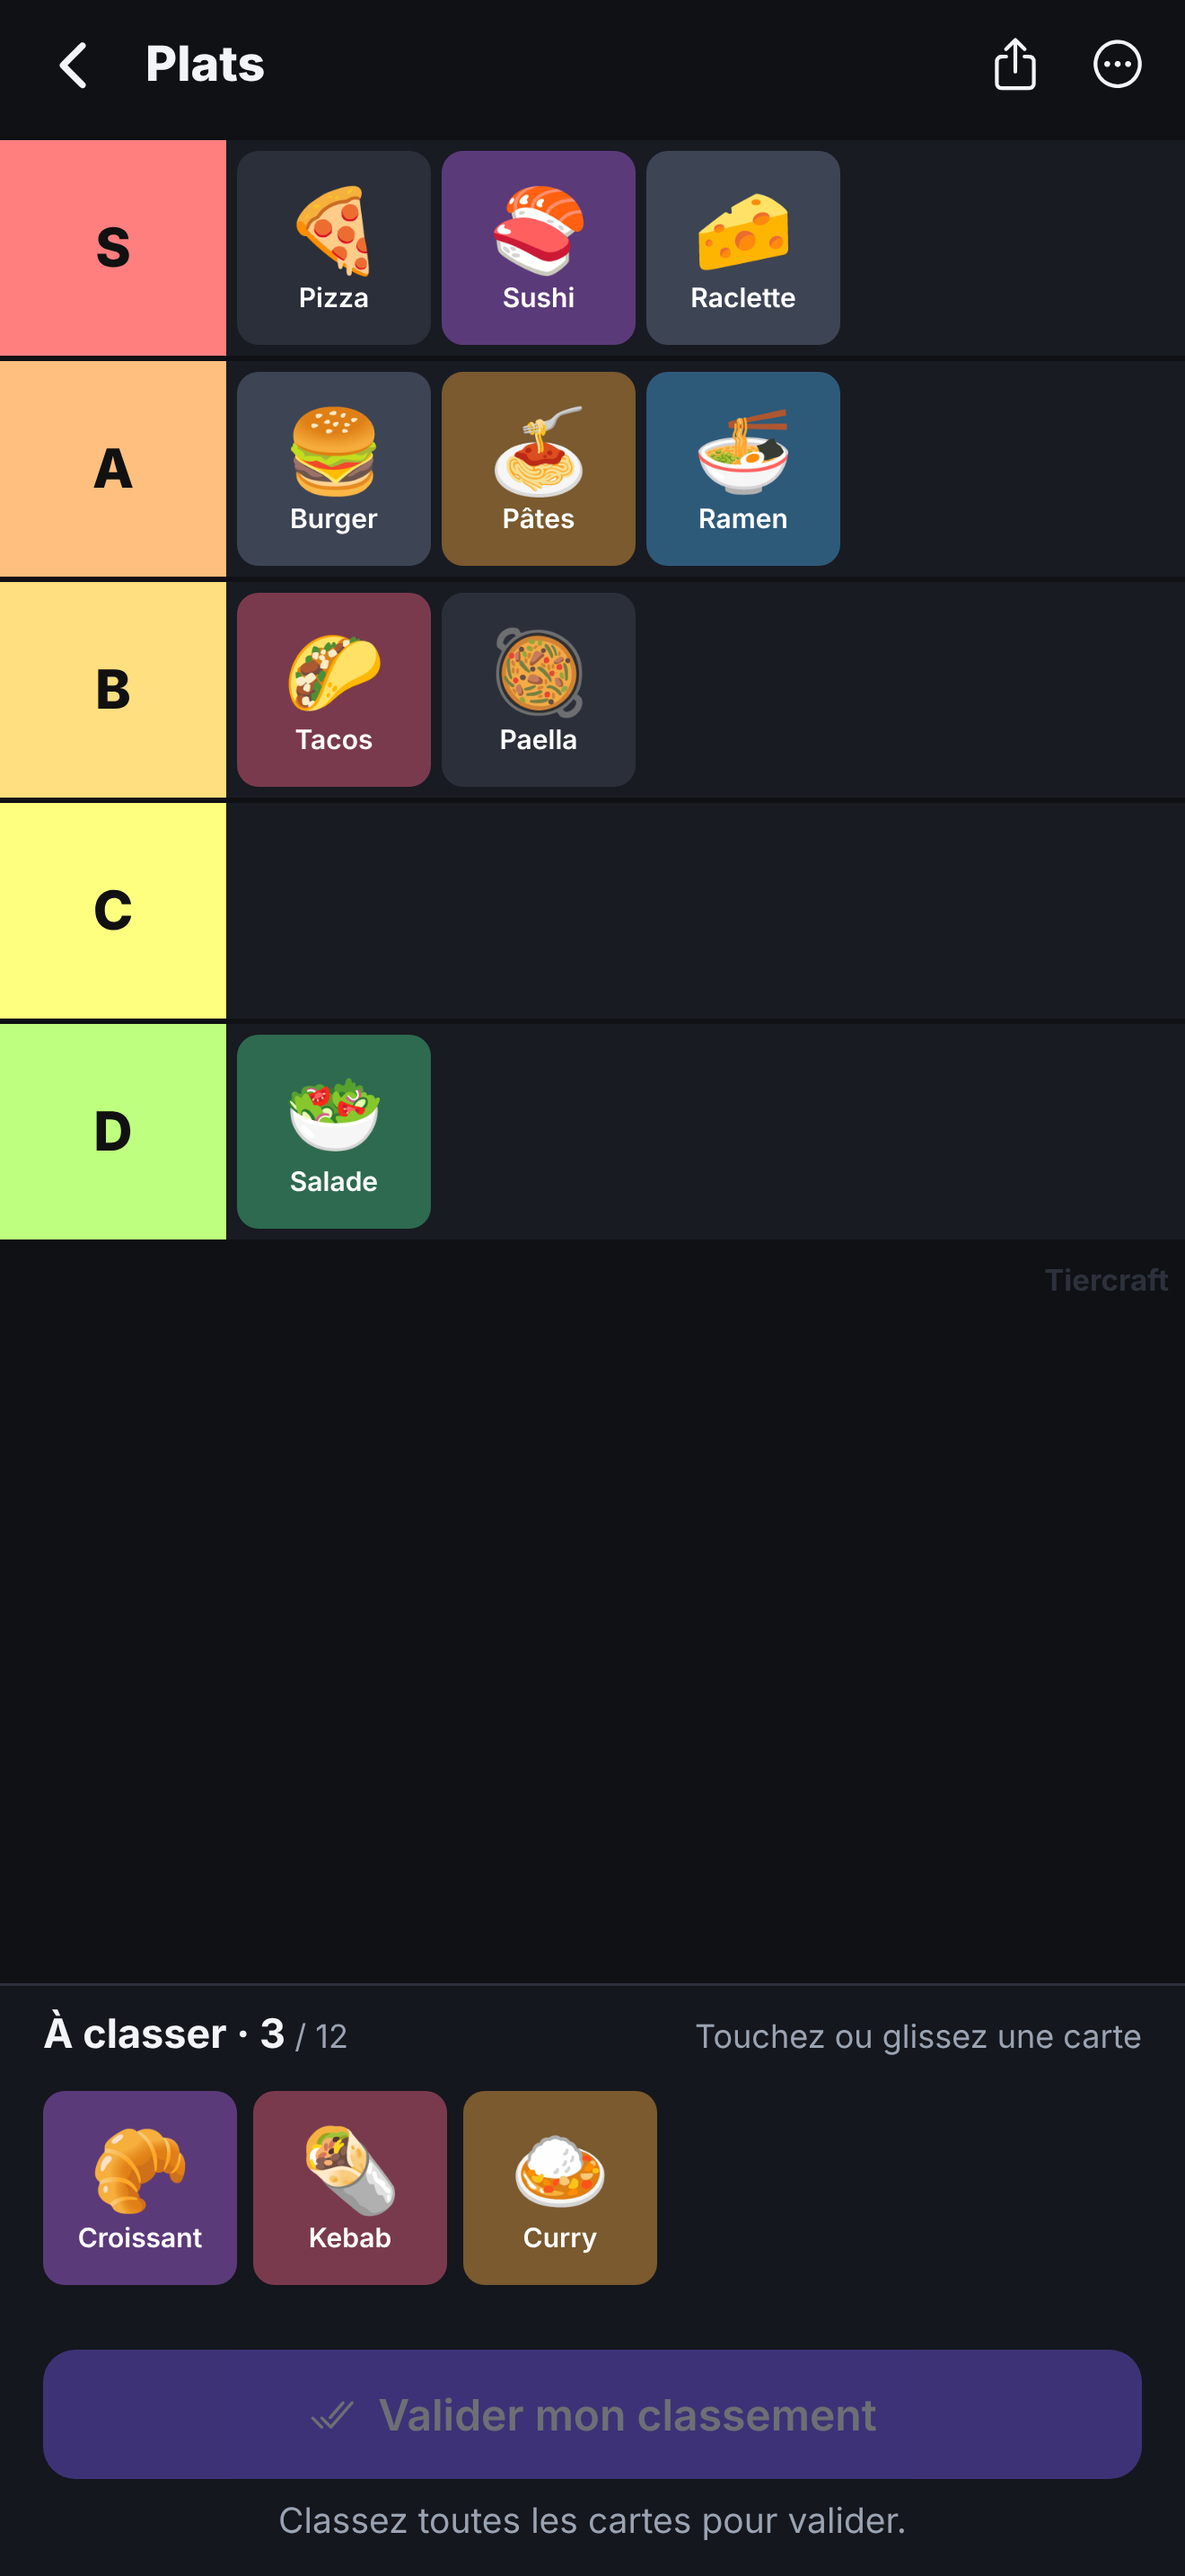
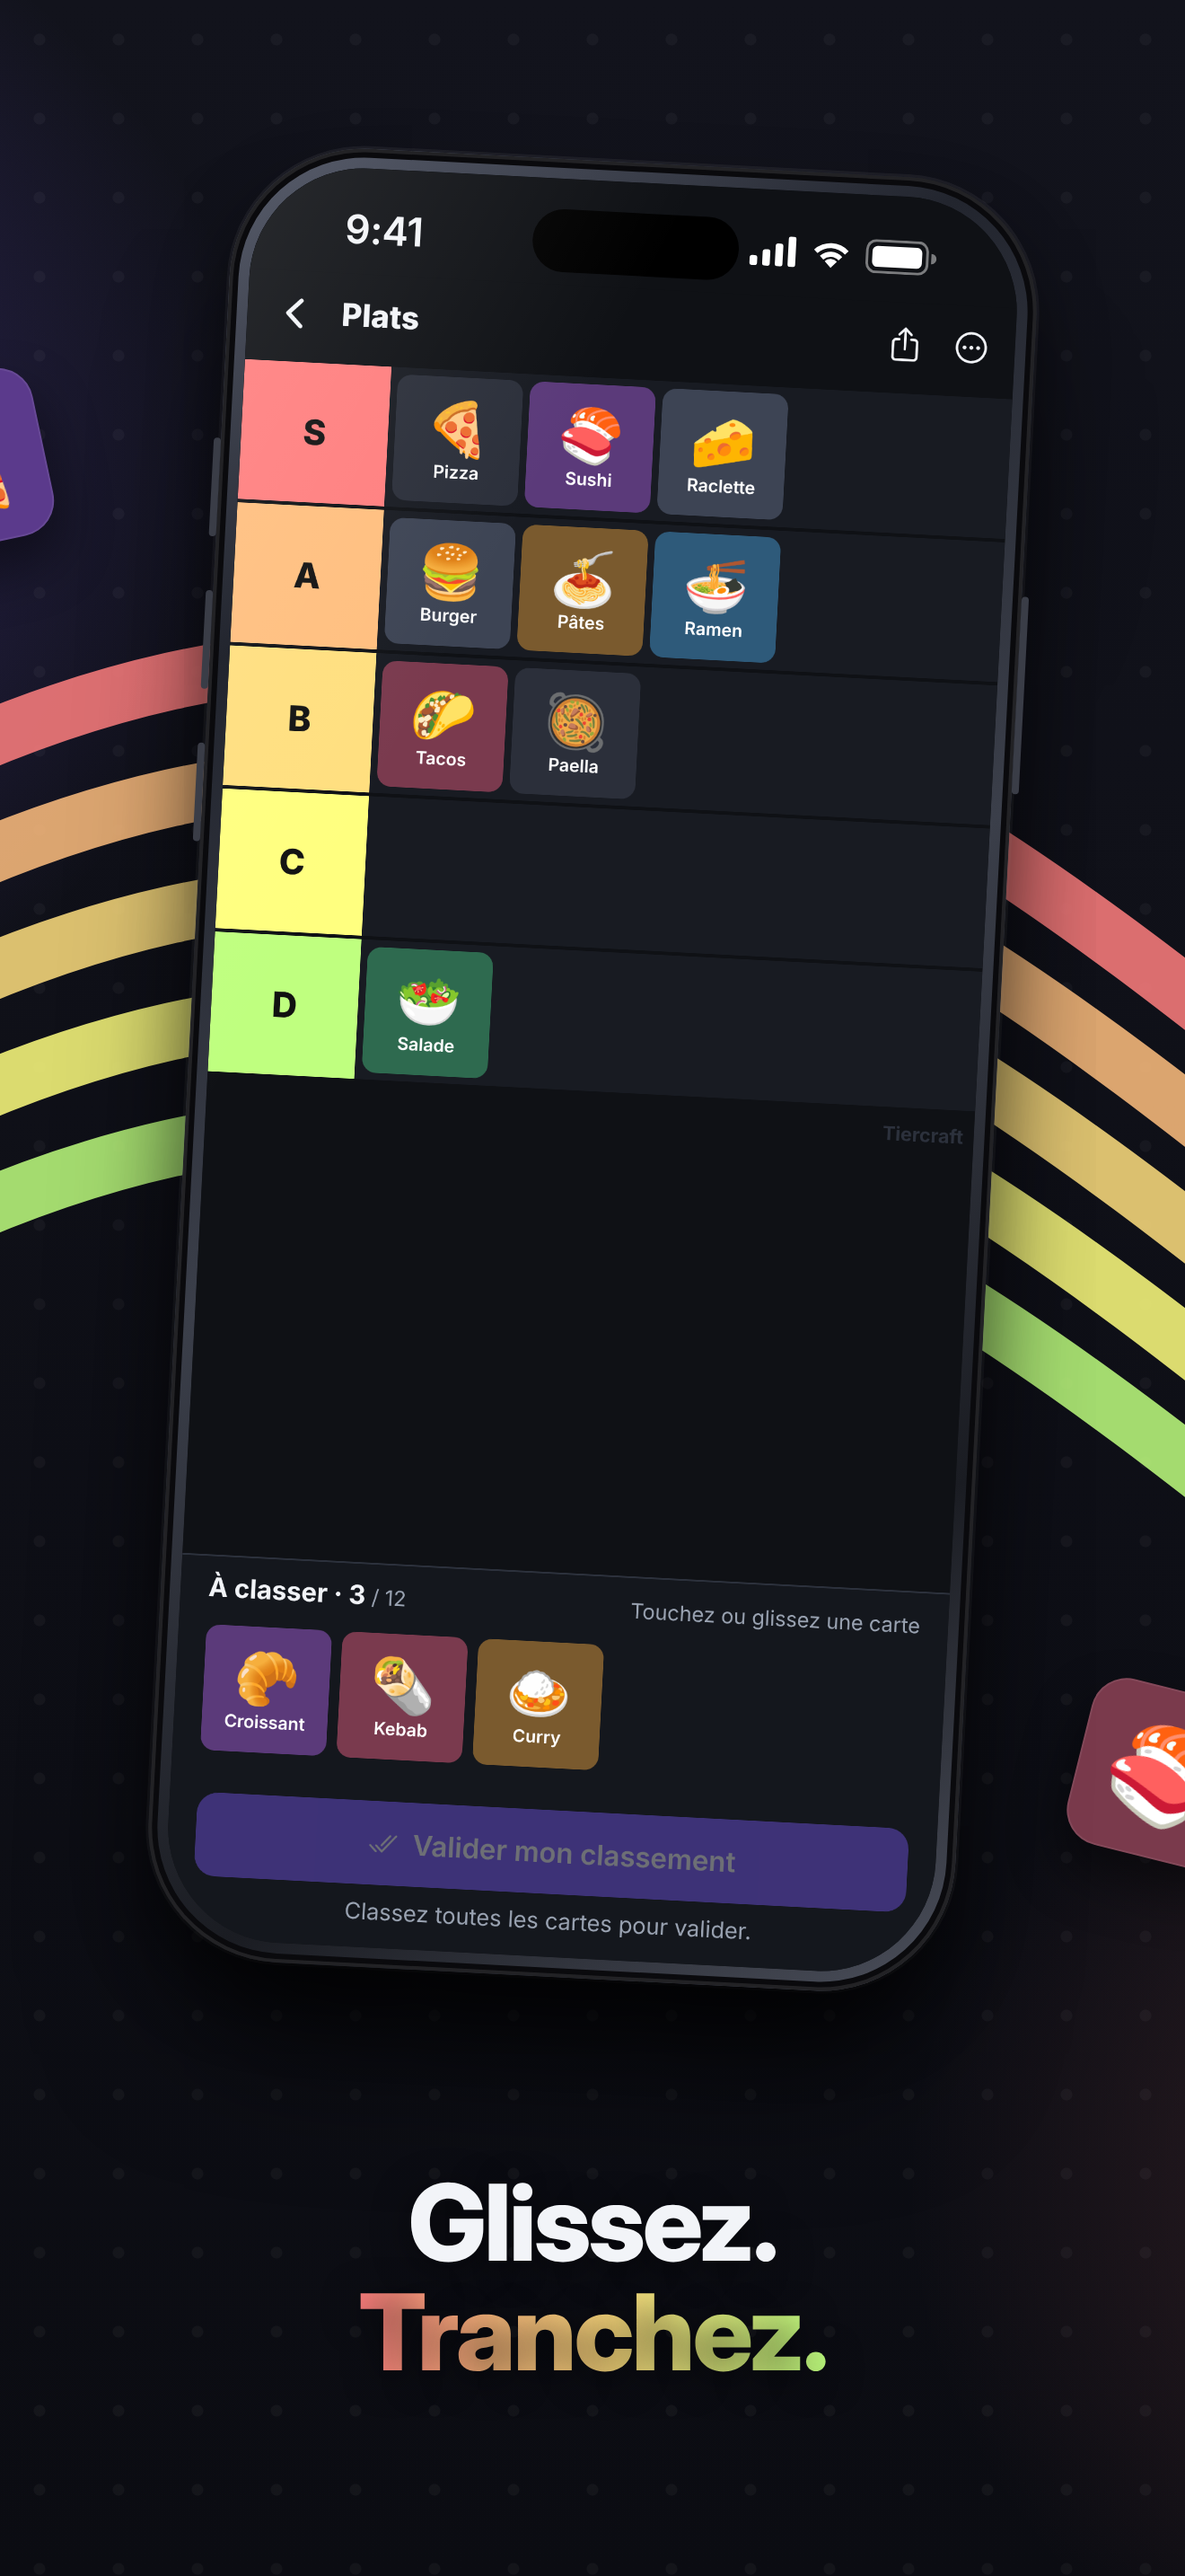
Captures App Store : panorama marketing avec iPhones et accroches
Claude-Session: https://claude.ai/code/session_01DhShhLH3zBuSaDfUSn3tBR

diff --git a/scripts/store-screenshots/panorama.html b/scripts/store-screenshots/panorama.html
@@ -1,0 +1,136 @@
+<!doctype html>
+<html lang="fr">
+<head>
+<meta charset="utf-8">
+<title>Tiercraft · captures App Store</title>
+<!--
+  App Store screenshots, drawn as one continuous panorama and cut into
+  1320 × 2868 slices by render.mjs. The app screens come from store/screens/.
+-->
+<style>
+  :root {
+    --w: 1320px; --h: 2868px;
+    --s: #FF7F7F; --a: #FFBF7F; --b: #FFDF7F; --c: #FFFF7F; --d: #BFFF7F;
+    --primary: #7C5CFF;
+  }
+  * { box-sizing: border-box; margin: 0; }
+  body { width: calc(var(--w) * 6); height: var(--h); overflow: hidden; background: #0B0C12;
+    font-family: 'Inter Display', Inter, sans-serif; color: #F2F4F8; }
+  #stage { position: relative; width: 100%; height: 100%; overflow: hidden;
+    background:
+      radial-gradient(1400px 1100px at 8% 18%, rgba(124, 92, 255, .38), transparent 70%),
+      radial-gradient(1200px 1000px at 40% 85%, rgba(255, 127, 127, .20), transparent 70%),
+      radial-gradient(1300px 1100px at 68% 15%, rgba(255, 191, 127, .18), transparent 70%),
+      radial-gradient(1400px 1200px at 95% 80%, rgba(124, 92, 255, .32), transparent 70%),
+      linear-gradient(180deg, #12131C 0%, #0B0C12 100%); }
+  /* Faint grid of rounded tiles, like empty card slots. */
+  #stage::before { content: ''; position: absolute; inset: 0; opacity: .5;
+    background-image: radial-gradient(circle at 50% 50%, rgba(255,255,255,.07) 0 6px, transparent 7px);
+    background-size: 88px 88px; }
+  svg.ribbon { position: absolute; inset: 0; width: 100%; height: 100%; }
+
+  .float { position: absolute; width: 190px; height: 190px; border-radius: 40px; display: grid; place-items: center;
+    font-size: 104px; box-shadow: 0 30px 60px rgba(0,0,0,.45), inset 0 0 0 2px rgba(255,255,255,.08); }
+
+  .panel { position: absolute; top: 0; width: var(--w); height: var(--h); }
+  .phone { position: absolute; left: 50%; width: 900px; height: 2022px; margin-left: -450px; border-radius: 150px; padding: 22px;
+    background: linear-gradient(145deg, #5A5F6E 0%, #22252E 22%, #3B3F4A 50%, #1A1C22 78%, #4C505C 100%);
+    box-shadow:
+      0 120px 160px -40px rgba(0,0,0,.75),
+      0 40px 80px rgba(0,0,0,.45),
+      0 0 0 3px rgba(255,255,255,.06),
+      inset 0 0 0 4px rgba(255,255,255,.10),
+      inset 0 0 0 10px #0A0A0D; }
+  .phone::before, .phone::after { content: ''; position: absolute; width: 8px; border-radius: 4px; background: #3A3D47; }
+  .phone::before { left: -8px; top: 330px; height: 110px; box-shadow: 0 170px 0 #3A3D47, 0 340px 0 #3A3D47; }
+  .phone::after { right: -8px; top: 460px; height: 220px; }
+  .screen { position: relative; width: 100%; height: 100%; border-radius: 128px; overflow: hidden; background: #0F1115; }
+  .screen img { position: absolute; left: 0; top: 118px; width: 100%; }
+  .status { position: absolute; inset: 0 0 auto 0; height: 118px; background: #0F1115; z-index: 1;
+    display: flex; align-items: center; justify-content: space-between; padding: 18px 92px 0 104px;
+    font: 600 44px Inter, sans-serif; letter-spacing: -.5px; }
+  .status .icons { display: flex; gap: 14px; align-items: center; }
+  .island { position: absolute; top: 34px; left: 50%; width: 230px; height: 70px; margin-left: -115px; border-radius: 40px; background: #000; z-index: 2; }
+  .glare { position: absolute; inset: 0; border-radius: 128px; z-index: 3; pointer-events: none;
+    background: linear-gradient(115deg, rgba(255,255,255,.10) 0%, rgba(255,255,255,0) 28%); }
+
+  .caption { position: absolute; left: 90px; right: 90px; bottom: 210px; text-align: center;
+    font-weight: 800; font-size: 118px; line-height: 1.04; letter-spacing: -3px; text-shadow: 0 8px 40px rgba(0,0,0,.5); }
+  .caption em { font-style: normal; background: linear-gradient(90deg, var(--s), var(--a) 30%, var(--b) 55%, var(--d));
+    -webkit-background-clip: text; background-clip: text; color: transparent; }
+
+  .hero-title { position: absolute; left: 0; right: 0; top: 190px; text-align: center; }
+  .hero-title h1 { font-size: 230px; font-weight: 900; letter-spacing: -8px; line-height: 1; }
+  .hero-title .strip { display: flex; gap: 14px; width: 760px; margin: 46px auto 0; }
+  .hero-title .strip span { flex: 1; height: 18px; border-radius: 9px; }
+</style>
+</head>
+<body>
+<div id="stage">
+  <!-- A ribbon of the five tier colours runs across every slice, so the slices read as one panorama. -->
+  <svg class="ribbon" viewBox="0 0 7920 2868" preserveAspectRatio="none">
+    <defs>
+      <filter id="soft"><feGaussianBlur stdDeviation="2"/></filter>
+    </defs>
+    <g fill="none" stroke-linecap="round" opacity=".9" filter="url(#soft)">
+      <path id="r" d="M -200 2150 C 600 1650, 1100 900, 1900 1000 S 3200 2250, 4100 1900 S 5400 700, 6300 1050 S 7600 2050, 8200 1700" />
+    </g>
+    <g fill="none" stroke-width="64" stroke-linecap="round" opacity=".85">
+      <use href="#r" stroke="#FF7F7F" transform="translate(0,-260)"/>
+      <use href="#r" stroke="#FFBF7F" transform="translate(0,-130)"/>
+      <use href="#r" stroke="#FFDF7F"/>
+      <use href="#r" stroke="#FFFF7F" transform="translate(0,130)"/>
+      <use href="#r" stroke="#BFFF7F" transform="translate(0,260)"/>
+    </g>
+  </svg>
+
+  <!-- Cards floating around the phones; some straddle two slices. -->
+  <div class="float" style="left:1180px; top:420px; background:#5B3A8C; transform:rotate(-12deg)">🍕</div>
+  <div class="float" style="left:150px; top:1650px; background:#2E6B4F; transform:rotate(10deg) scale(.8)">🍓</div>
+  <div class="float" style="left:2520px; top:1880px; background:#7A3A4C; transform:rotate(14deg)">🍣</div>
+  <div class="float" style="left:3880px; top:300px; background:#2C5A7A; transform:rotate(-8deg)">🌶</div>
+  <div class="float" style="left:5180px; top:1950px; background:#7A5A2C; transform:rotate(9deg)">🍉</div>
+  <div class="float" style="left:6500px; top:330px; background:#3B4050; transform:rotate(-14deg)">🇯🇵</div>
+  <div class="float" style="left:7700px; top:1700px; background:#5B3A8C; transform:rotate(12deg) scale(.85)">🥐</div>
+
+  <section class="panel" style="left:0">
+    <div class="hero-title">
+      <h1>Tiercraft</h1>
+      <div class="strip"><span style="background:var(--s)"></span><span style="background:var(--a)"></span><span style="background:var(--b)"></span><span style="background:var(--c)"></span><span style="background:var(--d)"></span></div>
+    </div>
+    <div class="phone" data-screen="accueil" style="top:640px; transform:rotate(-4deg) scale(.8); transform-origin:50% 0"></div>
+    <p class="caption">Classez tout,<br><em>de S à D.</em></p>
+  </section>
+  <section class="panel" style="left:1320px">
+    <div class="phone" data-screen="classement" style="top:180px; transform:rotate(3deg)"></div>
+    <p class="caption">Glissez.<br><em>Tranchez.</em></p>
+  </section>
+  <section class="panel" style="left:2640px">
+    <div class="phone" data-screen="du-jour" style="top:340px; transform:rotate(-3deg) scale(.94); transform-origin:50% 0"></div>
+    <p class="caption">Un défi<br><em>chaque jour.</em></p>
+  </section>
+  <section class="panel" style="left:3960px">
+    <div class="phone" data-screen="comparatif" style="top:180px; transform:rotate(3deg)"></div>
+    <p class="caption">D’accord avec<br><em>les autres ?</em></p>
+  </section>
+  <section class="panel" style="left:5280px">
+    <div class="phone" data-screen="personnalisation" style="top:340px; transform:rotate(-3deg) scale(.94); transform-origin:50% 0"></div>
+    <p class="caption">Vos rangs,<br><em>vos règles.</em></p>
+  </section>
+  <section class="panel" style="left:6600px">
+    <div class="phone" data-screen="partage" style="top:180px; transform:rotate(3deg)"></div>
+    <p class="caption">Un code,<br><em>et c’est partagé.</em></p>
+  </section>
+</div>
+<script>
+  // Phone contents: status bar, Dynamic Island, the app screen and a light glare.
+  const icons = '<svg width="54" height="34" viewBox="0 0 18 12"><rect x="0" y="8" width="3" height="4" rx="1" fill="#fff"/><rect x="5" y="5.5" width="3" height="6.5" rx="1" fill="#fff"/><rect x="10" y="3" width="3" height="9" rx="1" fill="#fff"/><rect x="15" y="0" width="3" height="12" rx="1" fill="#fff"/></svg>'
+    + '<svg width="48" height="34" viewBox="0 0 16 12"><path d="M8 11.5 5.6 9a3.4 3.4 0 0 1 4.8 0zM3.6 7a6.2 6.2 0 0 1 8.8 0l-1.4 1.4a4.2 4.2 0 0 0-6 0zM1.2 4.6a9.6 9.6 0 0 1 13.6 0l-1.4 1.4a7.6 7.6 0 0 0-10.8 0z" fill="#fff"/></svg>'
+    + '<svg width="80" height="38" viewBox="0 0 27 13"><rect x=".5" y=".5" width="23" height="12" rx="3.5" fill="none" stroke="#fff" stroke-opacity=".45"/><rect x="2.5" y="2.5" width="19" height="8" rx="2" fill="#fff"/><path d="M25 4.5v4a2 2 0 0 0 0-4z" fill="#fff" fill-opacity=".45"/></svg>';
+  for (const p of document.querySelectorAll('.phone')) {
+    p.innerHTML = `<div class="screen"><div class="island"></div><div class="status"><span>9:41</span><span class="icons">${icons}</span></div>`
+      + `<img src="../../store/screens/${p.dataset.screen}.png"><div class="glare"></div></div>`;
+  }
+</script>
+</body>
+</html>

diff --git a/store/fiche-app-store.md b/store/fiche-app-store.md
@@ -60,11 +60,15 @@ Tout le reste : non collecté (pas de coordonnées, de localisation, d’histori
 
 ## Captures d’écran
 
-iPhone 6,9 pouces (1320 × 2868) obligatoires : voir `store/screenshots/`. Ordre conseillé :
-1. Tier list du jour et accueil
-2. Classement d’une liste (éditeur)
-3. Classement moyen et score de proximité
-4. Partage par code
+iPhone 6,9 pouces (1320 × 2868) obligatoires : voir `store/screenshots/`, à envoyer dans l’ordre des numéros (les six images forment un panorama continu) :
+1. « Classez tout, de S à D. » : titre et accueil
+2. « Glissez. Tranchez. » : classement
+3. « Un défi chaque jour. » : tier list du jour
+4. « D’accord avec les autres ? » : classement moyen
+5. « Vos rangs, vos règles. » : personnalisation
+6. « Un code, et c’est partagé. » : partage
+
+Pour les régénérer : écrans bruts dans `store/screens/`, mise en page dans `scripts/store-screenshots/panorama.html`, puis `node scripts/store-screenshots/render.mjs` (Playwright).
 
 ## Avant de soumettre
 
